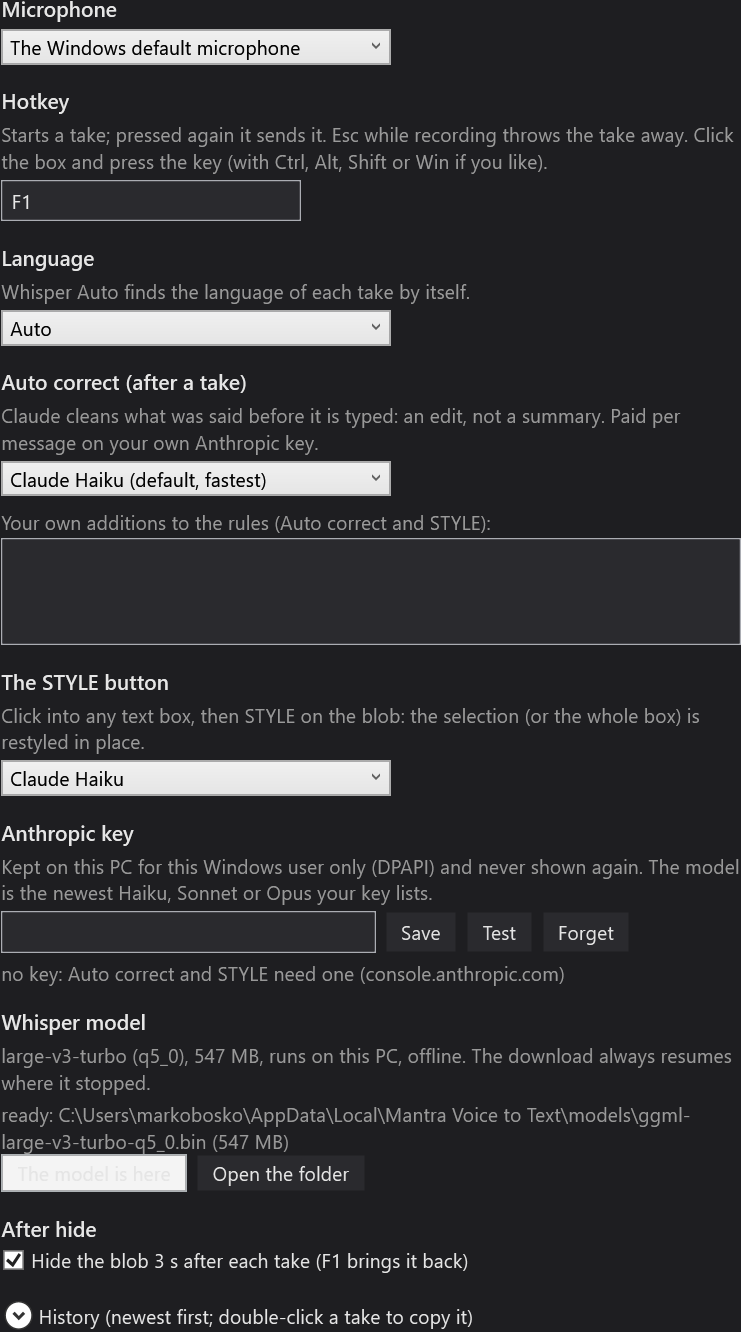
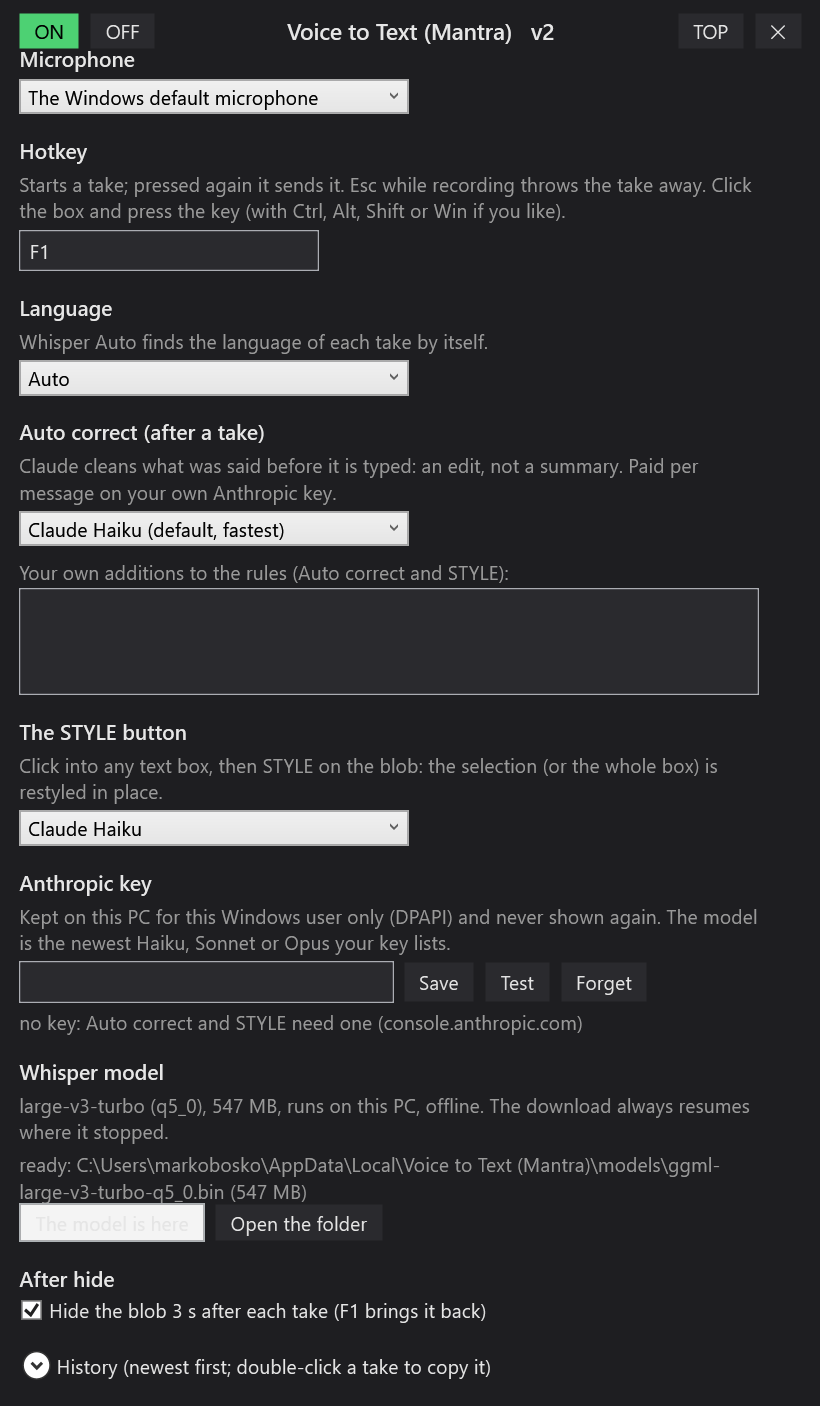
Windows v2: Voice to Text (Mantra), VoiceToTextMantra.exe, data folder moved from v1's (1.11.2026)
Claude-Session: https://claude.ai/code/session_01NceKUBaDCZJuC9hSLwNkCY

diff --git a/windows/src/Program.cs b/windows/src/Program.cs
@@ -1,4 +1,4 @@
-// Mantra Voice to Text (Windows), v1. The start: one copy at a time (a second start brings the blob back), the tray
+// Voice to Text (Mantra) (Windows), v2 (v1 was called Mantra Voice to Text). The start: one copy at a time (a second start brings the blob back), the tray
 // icon, and the test switches:
 //   --pill-shot <dir>        the blob's faces drawn into PNGs, nothing shown on the screen, then exit
 //   --take <file.wav>        a recording through the same road as a take from the microphone
@@ -52,11 +52,12 @@ namespace MantraVoiceToText
             EventWaitHandle show = null;
             if (!test)
             {
-                single = new Mutex(true, "MantraVoiceToText.single", out bool first);
-                show = new EventWaitHandle(false, EventResetMode.AutoReset, "MantraVoiceToText.show");
+                single = new Mutex(true, "VoiceToTextMantra.single", out bool first);
+                show = new EventWaitHandle(false, EventResetMode.AutoReset, "VoiceToTextMantra.show");
                 if (!first) { show.Set(); return 0; }
             }
 
+            if (Paths.Moved != null) Log.Write("data folder: " + Paths.Moved);
             Log.Write($"start v{Paths.Version} ({System.Runtime.InteropServices.RuntimeInformation.ProcessArchitecture}, {Environment.OSVersion}) " + string.Join(" ", args));
             var app = new Application { ShutdownMode = ShutdownMode.OnExplicitShutdown };
             app.DispatcherUnhandledException += (s, e) => { Log.Write("UI error: " + e.Exception); e.Handled = true; };
@@ -104,10 +105,18 @@ namespace MantraVoiceToText
                 {
                     await Task.Delay(1500);
                     var w = Application.Current.Windows.OfType<SettingsWindow>().First();
-                    var el = (FrameworkElement)((System.Windows.Controls.ScrollViewer)((System.Windows.Controls.DockPanel)w.Content).Children[1]).Content;
-                    var bmp = new System.Windows.Media.Imaging.RenderTargetBitmap((int)(el.ActualWidth * 1.5), (int)(el.ActualHeight * 1.5), 144, 144, PixelFormats.Pbgra32);
+                    var dock = (System.Windows.Controls.DockPanel)w.Content;
+                    var top = (FrameworkElement)dock.Children[0];
+                    var el = (FrameworkElement)((System.Windows.Controls.ScrollViewer)dock.Children[1]).Content;
+                    double W = Math.Max(top.ActualWidth, el.ActualWidth) + 24, H = top.ActualHeight + el.ActualHeight + 24;
+                    var bmp = new System.Windows.Media.Imaging.RenderTargetBitmap((int)(W * 1.5), (int)(H * 1.5), 144, 144, PixelFormats.Pbgra32);
                     var dv = new DrawingVisual();
-                    using (var dc = dv.RenderOpen()) { dc.DrawRectangle(w.Background, null, new Rect(0, 0, el.ActualWidth, el.ActualHeight)); dc.DrawRectangle(new VisualBrush(el), null, new Rect(0, 0, el.ActualWidth, el.ActualHeight)); }
+                    using (var dc = dv.RenderOpen())
+                    {
+                        dc.DrawRectangle(w.Background, null, new Rect(0, 0, W, H));
+                        dc.DrawRectangle(new VisualBrush(top), null, new Rect(12, 8, top.ActualWidth, top.ActualHeight));
+                        dc.DrawRectangle(new VisualBrush(el), null, new Rect(12, 8 + top.ActualHeight, el.ActualWidth, el.ActualHeight));
+                    }
                     bmp.Render(dv);
                     var enc = new System.Windows.Media.Imaging.PngBitmapEncoder(); enc.Frames.Add(System.Windows.Media.Imaging.BitmapFrame.Create(bmp));
                     using (var fs = File.Create(settingsShot)) enc.Save(fs);

diff --git a/windows/src/Prefs.cs b/windows/src/Prefs.cs
@@ -1,5 +1,5 @@
-// The settings, the key, the log and the history of Mantra Voice to Text (Windows).
-// Everything lives in %LOCALAPPDATA%\Mantra Voice to Text: settings.json, key.bin (DPAPI, this Windows user only),
+// The settings, the key, the log and the history of Voice to Text (Mantra) (Windows; called Mantra Voice to Text in v1).
+// Everything lives in %LOCALAPPDATA%\Voice to Text (Mantra): settings.json, key.bin (DPAPI, this Windows user only),
 // history.json, log.txt and models\.
 using System;
 using System.Collections.Generic;
@@ -13,9 +13,25 @@ namespace MantraVoiceToText
 {
     public static class Paths
     {
-        public const string Name = "Mantra Voice to Text";
-        public const int Version = 1;
-        public static readonly string Home = Path.Combine(Environment.GetFolderPath(Environment.SpecialFolder.LocalApplicationData), Name);
+        public const string Name = "Voice to Text (Mantra)";
+        public const int Version = 2;
+        public const string OldName = "Mantra Voice to Text";             // v1's name and data folder
+        public static readonly string Home = HomeFolder();
+        public static string Moved { get; private set; }                  // what happened to v1's folder, for the log
+
+        // v2: v1's folder (the model, a .part, the key, the settings, the history) is moved to the new name once, at the
+        // first start; if it cannot be moved (v1 still running), v1's folder is used as it is, so nothing is downloaded again
+        static string HomeFolder()
+        {
+            var la = Environment.GetFolderPath(Environment.SpecialFolder.LocalApplicationData);
+            string home = Path.Combine(la, Name), old = Path.Combine(la, OldName);
+            if (Directory.Exists(old) && !Directory.Exists(home))
+            {
+                try { Directory.Move(old, home); Moved = $"moved {old} to {home}"; }
+                catch (Exception e) { Moved = $"could not move {old} ({e.Message}): using it as it is"; return old; }
+            }
+            return home;
+        }
         public static readonly string Models = Path.Combine(Home, "models");
         public const string ModelFile = "ggml-large-v3-turbo-q5_0.bin";
         public const string ModelUrl = "https://huggingface.co/ggerganov/whisper.cpp/resolve/main/ggml-large-v3-turbo-q5_0.bin";

diff --git a/windows/src/ModelDownload.cs b/windows/src/ModelDownload.cs
@@ -89,7 +89,7 @@ namespace MantraVoiceToText
             if (have == Total) return Finish();
             if (have > Total) { Log.Write($"model download: the .part is too big ({have}), starting over"); File.Delete(Part); have = 0; }
             using var http = new HttpClient { Timeout = Timeout.InfiniteTimeSpan };
-            http.DefaultRequestHeaders.UserAgent.ParseAdd($"MantraVoiceToText/{Paths.Version}");
+            http.DefaultRequestHeaders.UserAgent.ParseAdd($"VoiceToTextMantra/{Paths.Version}");
             var req = new HttpRequestMessage(HttpMethod.Get, Paths.ModelUrl);
             if (have > 0) req.Headers.Range = new RangeHeaderValue(have, null);
             Log.Write($"model download: starting at {have} bytes" + (have > 0 ? $" (Range: bytes={have}-)" : ""));

diff --git a/windows/README.md b/windows/README.md
@@ -1,4 +1,9 @@
-# Mantra Voice to Text for Windows (v1)
+# Voice to Text (Mantra) for Windows (v2)
+
+v2 (1.11.2026): renamed from "Mantra Voice to Text" (v1). The exe is `VoiceToTextMantra.exe`, the data folder
+`%LOCALAPPDATA%\Voice to Text (Mantra)`; at the first start v1's folder `%LOCALAPPDATA%\Mantra Voice to Text` is moved
+there (model, .part, key, settings, history kept: nothing is downloaded again). If it cannot be moved (v1 still
+running), v1's folder is used as it is.
 
 A small floating blob that hears you, writes down what you said on your own PC (Whisper, offline), cleans it with
 Claude if you want, and types it where your cursor is. The Windows copy of the Mac app (`../mac`, first built as
@@ -6,14 +11,14 @@ MARKO_TRANSCRIBE), without the Mac-only parts (voice activation, Accessibility, 
 
 ## Use
 
-1. Unzip `MantraVoiceToText-v1-win-x64.zip` (Intel / AMD PCs) or `MantraVoiceToText-v1-win-arm64.zip` (Snapdragon,
-   Windows on a Mac) anywhere and start `MantraVoiceToText.exe`. Nothing is installed; the settings live in
-   `%LOCALAPPDATA%\Mantra Voice to Text`.
+1. Unzip `VoiceToTextMantra-v2-win-x64.zip` (Intel / AMD PCs) or `VoiceToTextMantra-v2-win-arm64.zip` (Snapdragon,
+   Windows on a Mac) anywhere and start `VoiceToTextMantra.exe`. Nothing is installed; the settings live in
+   `%LOCALAPPDATA%\Voice to Text (Mantra)`.
 2. ⚙ → Settings → **Download the model (547 MB)** (Whisper large-v3-turbo q5_0 from Hugging Face, once). The download
    **always resumes**: it goes to `…\models\ggml-large-v3-turbo-q5_0.bin.part` with an HTTP Range from the .part's size,
    a dropped connection is tried again by itself (2, 4, 8 … 60 s apart), and when the app is closed and opened again it
    goes on by itself from where it stopped (no button). At exactly 574,041,195 bytes it becomes the .bin. If you already
-   have `ggml-large-v3-turbo-q5_0.bin`, put it in `%LOCALAPPDATA%\Mantra Voice to Text\models` instead.
+   have `ggml-large-v3-turbo-q5_0.bin`, put it in `%LOCALAPPDATA%\Voice to Text (Mantra)\models` instead.
    Whisper needs the **Microsoft Visual C++ runtime** (2015-2022); most PCs have it. When it is missing the blob says so
    and ⚙ → Settings has a **Get it** button (Microsoft's vc_redist for x64 or arm64).
 3. Optional: paste your Anthropic key into ⚙ → Settings → Anthropic key → Save (Test lists your models, nothing billed).
@@ -46,7 +51,7 @@ The .NET 8 SDK (8.0.427) on Windows. In the Parallels VM it is in `C:\dotnet`; t
 
 ```
 powershell -ExecutionPolicy Bypass -File windows\build.ps1             # build only
-powershell -ExecutionPolicy Bypass -File windows\build.ps1 -Publish    # + dist\MantraVoiceToText-v1-win-x64.zip, -win-arm64.zip
+powershell -ExecutionPolicy Bypass -File windows\build.ps1 -Publish    # + dist\VoiceToTextMantra-v2-win-x64.zip, -win-arm64.zip
 ```
 
 From the Mac: `prlctl exec "Windows 11" --current-user powershell -ExecutionPolicy Bypass -File 'Y:\Developer\MANTRA_VOICE_TO_TEXT\windows\build.ps1' -Publish`
@@ -55,7 +60,7 @@ downloaded twice.
 
 Packages: Whisper.net 1.9.1 + Whisper.net.Runtime 1.9.1 + Whisper.net.Runtime.NoAvx 1.9.1 (whisper.cpp, CPU; NoAvx for
 old x64 CPUs and x64 emulation on ARM), NAudio.Core / NAudio.WinMM 2.2.1, Anthropic 13.3.0 (the official C# SDK). WPF,
-with WinForms only for the tray icon. The single-file exe extracts itself once to `%TEMP%\.net\MantraVoiceToText`
+with WinForms only for the tray icon. The single-file exe extracts itself once to `%TEMP%\.net\VoiceToTextMantra`
 (`IncludeAllContentForSelfExtract`, so Whisper.net finds its DLLs).
 
 | File | What |
@@ -74,23 +79,23 @@ with WinForms only for the tray icon. The single-file exe extracts itself once t
 ## Test switches
 
 ```
-MantraVoiceToText.exe --pill-shot <dir>              the blob's faces as PNGs (ready, recording, writing, not landed,
+VoiceToTextMantra.exe --pill-shot <dir>              the blob's faces as PNGs (ready, recording, writing, not landed,
                                                      styling, no auto correct, copied, no key, line below); nothing on screen
-MantraVoiceToText.exe --take <file.wav> [--no-type] [--exit]
+VoiceToTextMantra.exe --take <file.wav> [--no-type] [--exit]
                                                      a recording through the same road as a microphone take;
                                                      --no-type writes it down only, --exit quits 4 s after
-MantraVoiceToText.exe --press <id> [s]               presses a blob button after s seconds exactly as a click does
+VoiceToTextMantra.exe --press <id> [s]               presses a blob button after s seconds exactly as a click does
                                                      (close, language, pause, copy, style, settings, send)
-MantraVoiceToText.exe --repeat <n>                   with --take: the same file n times (cold, then warm)
-MantraVoiceToText.exe --bands <file.wav>             the voice meter's eleven bands every 0.1 s, into the log
-MantraVoiceToText.exe --download-model               starts the model download (a waiting .part goes on by itself anyway)
-MantraVoiceToText.exe --settings-shot <png>          ⚙ Settings drawn into a PNG, then exit
-MantraVoiceToText.exe --settings                     opens ⚙ Settings at the start
-MantraVoiceToText.exe --test-style-fake              STYLE writes the box back in CAPITALS without Claude
+VoiceToTextMantra.exe --repeat <n>                   with --take: the same file n times (cold, then warm)
+VoiceToTextMantra.exe --bands <file.wav>             the voice meter's eleven bands every 0.1 s, into the log
+VoiceToTextMantra.exe --download-model               starts the model download (a waiting .part goes on by itself anyway)
+VoiceToTextMantra.exe --settings-shot <png>          ⚙ Settings drawn into a PNG, then exit
+VoiceToTextMantra.exe --settings                     opens ⚙ Settings at the start
+VoiceToTextMantra.exe --test-style-fake              STYLE writes the box back in CAPITALS without Claude
                                                      (tests the reading and writing back of the focused box)
 ```
 
-Results go to `%LOCALAPPDATA%\Mantra Voice to Text\log.txt` (what was heard, the times, where it landed; never the key).
+Results go to `%LOCALAPPDATA%\Voice to Text (Mantra)\log.txt` (what was heard, the times, where it landed; never the key).
 Test recordings: `test/en-test.wav` (macOS `say`, Samantha, 16 kHz), `test/hr-test.wav` (`say`, Lana, Croatian) and
 `test/silence.wav` (2 s of digital silence). Pictures of the blob and Settings from the tests: `docs/`.
 
@@ -101,5 +106,5 @@ Test recordings: `test/en-test.wav` (macOS `say`, Samantha, 16 kHz), `test/hr-te
 `start.ps1`, `notepad.ps1` (a take typed into a fresh Notepad, read back by UI Automation), `nolanding.ps1` (a take with
 the desktop focused, then COPY), `styletest.ps1 [-Select]` (STYLE on Notepad with `--test-style-fake`), `keys.ps1` (F1,
 Esc, the ⚙ menu, the focus kept), `dltest.ps1` (start the download, kill, start again: it resumes; the real model is put
-back), `reltest.ps1 -Rid win-x64|win-arm64` (the zip unzipped and run), `liveshot.ps1` (Win+PrtScn copied out: GDI
+back), `reltest.ps1 -Rid win-x64|win-arm64` (the zip unzipped and run), `relshots.ps1` (the released exe draws its pill and Settings), `liveshot.ps1` (Win+PrtScn copied out: GDI
 screenshots miss the blob, LESSONS.md), `press.ps1` (a button through UI Automation; it moves the focus).

diff --git a/TAKEOVER.md b/TAKEOVER.md
@@ -65,3 +65,18 @@ PC (see the x64 line above); a PC without the VC++ runtime after the "Get it" me
 before it was seen); the download from 0 to the end (only ~18 MB); the hotkey change in Settings; the history window's
 buttons; Windows 10; high-DPI multi-monitor placement; antivirus / SmartScreen reaction to an unsigned exe (it is not
 signed: Windows will warn "unknown publisher" on first start).
+
+### Windows v2 (1.11.2026): Voice to Text (Mantra)
+
+Renamed at Marko's word: the name everywhere the user sees it (window titles, Settings' first row "Voice to Text
+(Mantra)   v2", tray tooltip, menus, the exe's version info: ProductName / FileDescription "Voice to Text (Mantra)",
+ProductVersion 2, FileVersion 2.0.0.0). Exe `VoiceToTextMantra.exe`, zips `windows/dist/VoiceToTextMantra-v2-win-x64.zip`
+and `-win-arm64.zip` (the v1 zips are still beside them). Data folder `%LOCALAPPDATA%\Voice to Text (Mantra)`: v1's
+`%LOCALAPPDATA%\Mantra Voice to Text` is moved there at the first start (kept as it is when the move fails). The C#
+namespace and the .csproj file name stay MantraVoiceToText (not seen by anyone).
+
+**Proven 1.11.2026 (arm64 release zip in the VM):** the first start logged "data folder: moved …\Mantra Voice to Text
+to …\Voice to Text (Mantra)", the model came along (574,041,195 bytes, no download line in the log), and the English
+test file was written down word for word (34.2 s, then 35.0 s). `--pill-shot` and `--settings-shot` from the released exe
+looked at: the new name and v2 in Settings; the exe's version info read back. **Not proven for v2:** the x64 zip was
+built but not run (v1's x64 ran only under emulation), and everything listed as not proven for v1.
